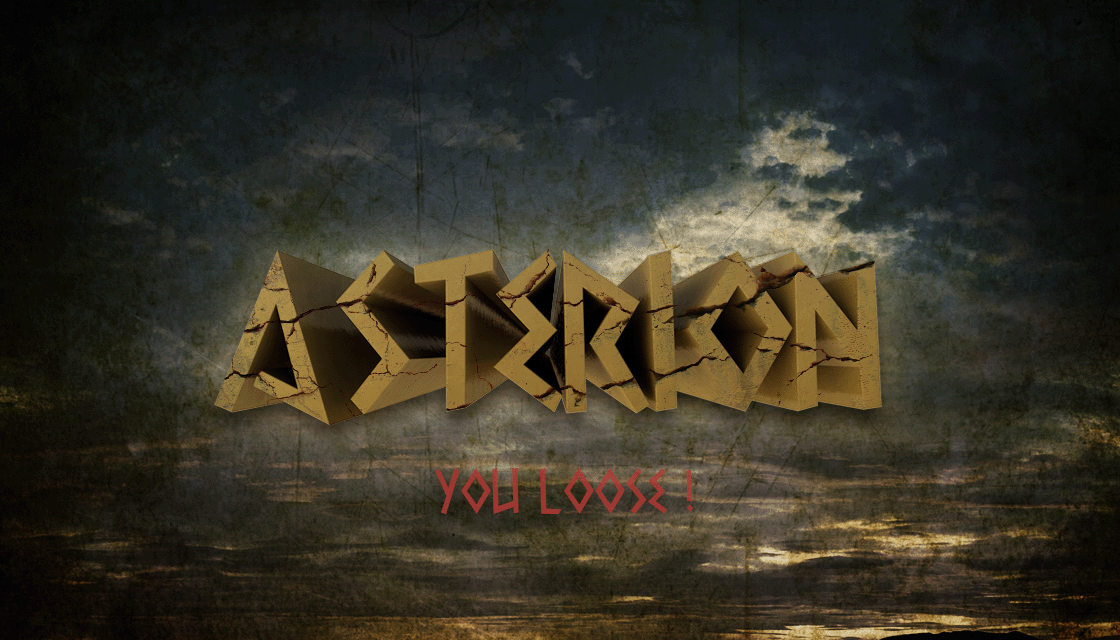
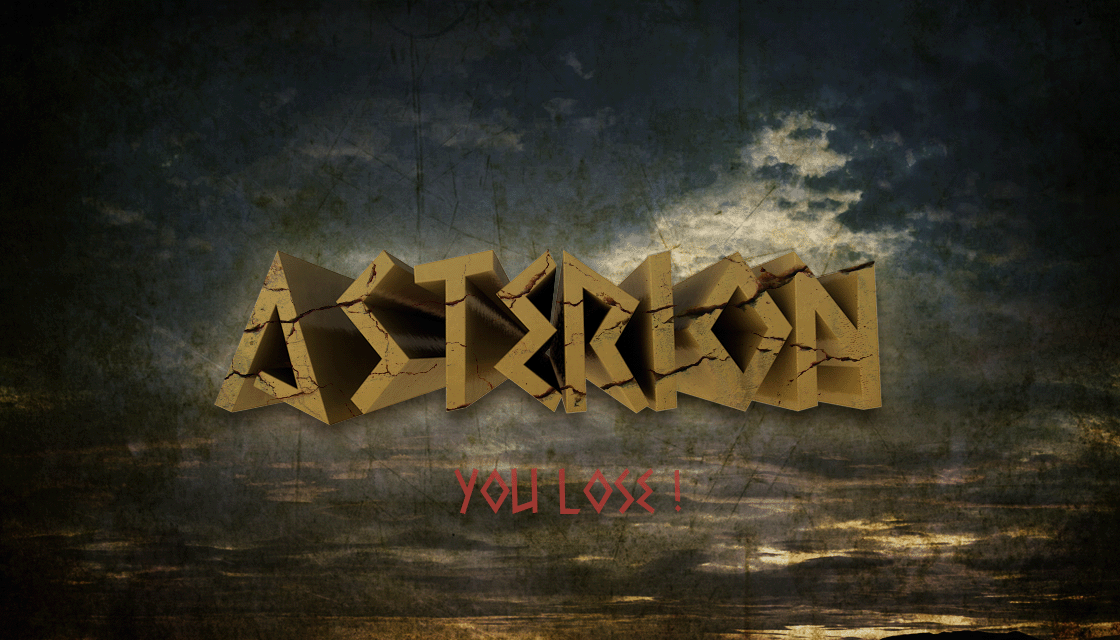
add win and lose scenarios

Changed region(s): [[0.375, 0.7188, 0.625, 0.8125]]

diff --git a/boilerplate-master/js/entities/entities.js b/boilerplate-master/js/entities/entities.js
@@ -155,6 +155,7 @@ game.PlayerEntity = me.Entity.extend({
                         }
                         if (game.data.lives <= 0) {
                             console.log("Dead! Game Over");
+                            setTimeout(function() {me.state.change(me.state.GAMEOVER);},2000);
                             this.alive = false;
                             me.game.world.removeChild(this);
                         }
@@ -536,6 +537,8 @@ game.EnemyEntity = me.Entity.extend({
         this.renderable.setCurrentAnimation("dead");
             
         console.log("You win!");
+        // http://stackoverflow.com/questions/8375962/settimeout-does-not-work
+        setTimeout(function() {me.state.change(me.state.GAME_END);},1000);
         
         //remove it
         //me.game.world.removeChild(this);

diff --git a/boilerplate-master/js/game.js b/boilerplate-master/js/game.js
@@ -49,6 +49,13 @@ var game = {
         // set the "Play/Ingame" Screen Object
         me.state.set(me.state.PLAY, new game.PlayScreen());
         
+        // set the "Victory" Screen Object
+        me.state.set(me.state.GAME_END, new game.VictoryScreen());
+        
+        // set the "Victory" Screen Object
+        me.state.set(me.state.GAMEOVER, new game.DefeatScreen());
+        
+        
         // set a global fading transition 
         me.state.transition("fade", "#000000", 250);
 

diff --git a/boilerplate-master/js/screens/defeat.js b/boilerplate-master/js/screens/defeat.js
@@ -1,5 +1,5 @@
 /*global game, me*/
-game.VictoryScreen = me.ScreenObject.extend({
+game.DefeatScreen = me.ScreenObject.extend({
     /**
      *  action to perform on state change
      */
@@ -17,7 +17,7 @@ game.VictoryScreen = me.ScreenObject.extend({
             new me.Sprite (
                 0,0,
                 //me.loader.getImage('title_screen')
-                me.loader.getImage('win')
+                me.loader.getImage('lose')
             ),
             1
         );

diff --git a/boilerplate-master/index.html b/boilerplate-master/index.html
@@ -33,6 +33,8 @@
 
 		<script type="text/javascript" src="js/screens/title.js"></script>
 		<script type="text/javascript" src="js/screens/play.js"></script>
+        <script type="text/javascript" src="js/screens/victory.js"></script>
+        <script type="text/javascript" src="js/screens/defeat.js"></script>
 		<!-- /build -->
 		<!-- Bootstrap & Mobile optimization tricks -->
 		<script type="text/javascript">

diff --git a/boilerplate-master/js/resources.js b/boilerplate-master/js/resources.js
@@ -56,4 +56,6 @@ game.resources = [
     // Title screen
     {name: "title_screen", type:"image", src:"data/img/gui/title_screen.png"},
     {name: "intro", type:"image", src:"data/img/gui/intro.png"}, //temporary solution
+    {name: "lose", type:"image", src:"data/img/gui/lose.png"},
+    {name: "win", type:"image", src:"data/img/gui/win.png"},
 ];

diff --git a/notesTiago.md b/notesTiago.md
@@ -14,6 +14,10 @@ My learning notes during the development process.
 <pre>
 return (this._super(me.Entity, 'update', [dt]) || this.body.vel.x !== 0 || this.body.vel.y !== 0);
 </pre>
+
+7th problem - [setTimeout](http://stackoverflow.com/questions/8375962/settimeout-does-not-work) needs to call a function that has the function I want to call later.
+
+
 Table for object collision:
 
 * NO_OBJECT: 0
